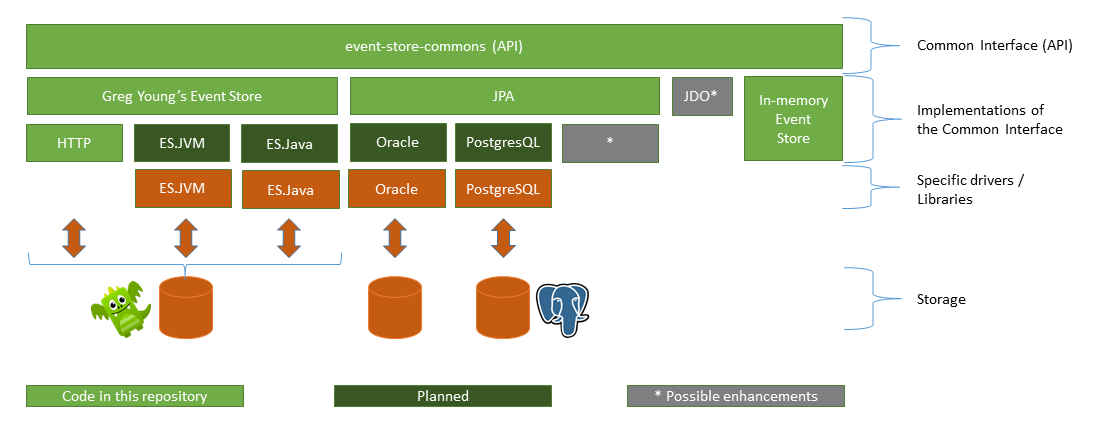
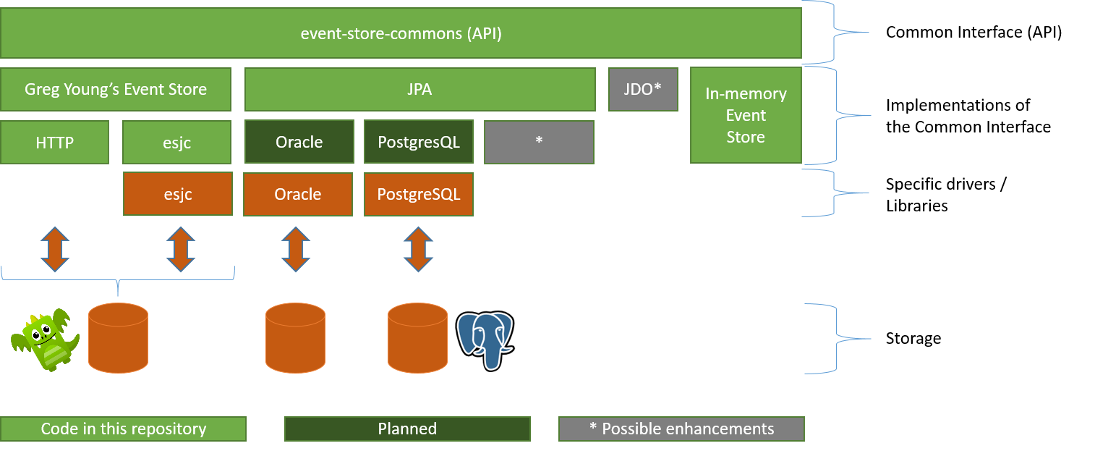
Updated documentation

diff --git a/eshttp/README.md b/eshttp/README.md
@@ -1,15 +1,13 @@
 # esc-eshttp
 Event store commons HTTP adapter for Greg Young's [Event Store](https://www.geteventstore.com/).
 
-**CURRENTLY BROKEN (2016-07-01)**
-
 ## ESC Meta Data Structure
 The [Event Store](https://geteventstore.com/) has only limited support for different types of stored data. 
 To allow having multiple types and versions of data and meta data, the common event store interface introduces 
 a separate meta data structure. It contains information about content-types, encoding, version, meta type and 
 the meta information provided by the user.
 
-Here is how the data structure looks like that is sent using the [Event Store Events Media Type](http://docs.geteventstore.com/http-api/3.4.0/writing-to-a-stream/):
+Here is how the data structure looks like that is sent using the [Event Store Events Media Type](http://docs.geteventstore.com/http-api/3.9.0/writing-to-a-stream/):
 ```json
 [
     {
@@ -20,48 +18,47 @@ Here is how the data structure looks like that is sent using the [Event Store Ev
             "author":"Stephen King"
         },
         "MetaData":{
-            "EscUserMeta":{
+	        "data-type":"MyEvent",
+            "data-content-type":"application/json; encoding=UTF-8",
+	        "meta-type":"MyMeta",
+            "meta-content-type":"application/json; encoding=UTF-8; version=3",
+            "MyMeta":{
                 "user":"michael"
-            },
-            "EscSysMeta":{
-                "data-content-type":"application/json; encoding=UTF-8",
-                "meta-content-type":"application/json; encoding=UTF-8; version=3",
-                "meta-type":"MyMeta"
             }
         }
     }
 ]
 ```
 Some things to note:
-- "Data" contains the user's data (event)
-- "EscUserMeta" contains the user's meta data
-- "EscSysMeta" has type informations about "Data" and "EscUserMeta"
-- "*-content-type" contains the mime-type, encoding and and an optional version of the data structure
-- "meta-type" is the unique type name of the meta data (equivalent to "EventType" for data)
-
+- **EventId** Universally Unique Identifier (UUID) of the event (See [Event Store HTTP API](http://docs.geteventstore.com/http-api/3.9.0/writing-to-a-stream/)) 
+- **Data** contains the user's event data (See [Event Store HTTP API](http://docs.geteventstore.com/http-api/3.9.0/writing-to-a-stream/))
+- **MetaData** contains some additional information required by event store commons (See [Event Store HTTP API](http://docs.geteventstore.com/http-api/3.9.0/writing-to-a-stream/))
+- **data-type** is the unique type name of the event stored in the data element. It's actually a copy of the "EventType" field and only there to have complete meta information describing the data structure.
+- **data-content-type** contains the mime-type, encoding and and an optional version of the data 
+- **meta-type** is the unique type name of the meta data (equivalent to "EventType"/"data-type" for data)
+- **meta-content-type** contains the mime-type, encoding and and an optional version of the meta data
+- **MyMeta** is always the last optional element in the meta data structure and contains the user's meta data. The "meta-type" and "meta-content-type" are only available if there is such user meta data available. 
 
 Here is another example of event (XML) and mime type (TEXT) with a different format than the surrounding JSON envelope:
 ```json
 [
-    {
-        "EventId":"b3074933-c3ac-44c1-8854-04a21d560999",
-        "EventType":"BookAddedEvent",
-        "Data":{
[1 lines of base64/hex data omitted]
-        },
-        "MetaData":{
-            "EscUserMeta": {
-                "Base64": "QW55dGhpbmcgZ29lcw=="
-            },
-            "EscSysMeta": {
-                "data-content-type": "application/xml; encoding=UTF-8; transfer-encoding=base64",
-                "meta-content-type": "text/plain; encoding=UTF-8; transfer-encoding=base64; version=2",
-                "meta-type":"AnyMeta"
-            }
-        }
+{
+    "EventId":"bd58da40-9249-4b42-a077-10455b483c80",
+    "EventType":"MyEvent",
+    "Data": {
[1 lines of base64/hex data omitted]
+    },
+    "MetaData":{
+        "data-type": "MyEvent",
+        "data-content-type":"application/xml; version=1; encoding=utf-8; transfer-encoding=base64",
+        "meta-type": "MyMeta",
+        "meta-content-type":"application/xml; version=1; encoding=utf-8; transfer-encoding=base64",
+        "MyMeta":"PG15LW1ldGE+PHVzZXI+YWJjPC91c2VyPjwvbXktbWV0YT4=" 
     }
+}
 ]
 ```
 The actual data and meta data is base64 encoded. This way you can use any data format you like for storing your content.
-If you decode the base 64 data, it's "```<book-added-event name="Shining" author="Stephen King"/>```" (Data) and 
-"```Anything goes```" (EscUserMeta).
+If you decode the base 64 data, it's "```<MyEvent><id>bd58da40-9249-4b42-a077-10455b483c80</id><description>Hello, XML!</description></MyEvent>```" (Data) and 
+```<my-meta><user>abc</user></my-meta>``` (MyMeta).
+

diff --git a/README.md b/README.md
@@ -16,6 +16,8 @@ Defines a common event store Java interface and provides some adapters (like for
 |:-------|:------------|--------|:--------|
 | [esc-api](api) | Defines the event store commons API. | ![OK](https://raw.githubusercontent.com/fuinorg/event-store-commons/master/doc/ok.png) | Test coverage ~92% |
 | [esc-http](eshttp) | HTTP adapter for Greg Young's [event store](https://www.geteventstore.com/)| ![OK](https://raw.githubusercontent.com/fuinorg/event-store-commons/master/doc/ok.png) | Test coverage ~66% |
+| [esc-esjc](esjc) | [esjc](| [esc-http](eshttp) | HTTP adapter for Greg Young's [event store](https://www.geteventstore.com/)| ![OK](https://raw.githubusercontent.com/fuinorg/event-store-commons/master/doc/ok.png) | Test coverage ~66% |
+) adapter for Greg Young's [event store](https://www.geteventstore.com/)| ![IN WORK](https://raw.githubusercontent.com/fuinorg/event-store-commons/master/doc/work-in-progress.png) |  |
 | [esc-jpa](jpa) | JPA adapter | ![OK](https://raw.githubusercontent.com/fuinorg/event-store-commons/master/doc/ok.png) | Test coverage ~59% |
 | [esc-mem](mem) | In-memory implementation | ![OK](https://raw.githubusercontent.com/fuinorg/event-store-commons/master/doc/ok.png) | Test coverage ~60% |
 | [esc-spi](spi) | Helper classes for adapters and implementations | ![OK](https://raw.githubusercontent.com/fuinorg/event-store-commons/master/doc/ok.png) | Test coverage ~67% |
@@ -23,7 +25,6 @@ Defines a common event store Java interface and provides some adapters (like for
 
 ## Architecture
 ![Layers](https://raw.github.com/fuinorg/event-store-commons/master/doc/event-store-commons.png)
-See [ES.JVM](https://github.com/EventStore/EventStore.JVM) / [ES.Java](https://github.com/jen20/EventStore.Java)
 
 ## Examples
 - [Simple in-memory example](test/src/test/java/org/fuin/esc/test/examples/InMemoryExample.java)
